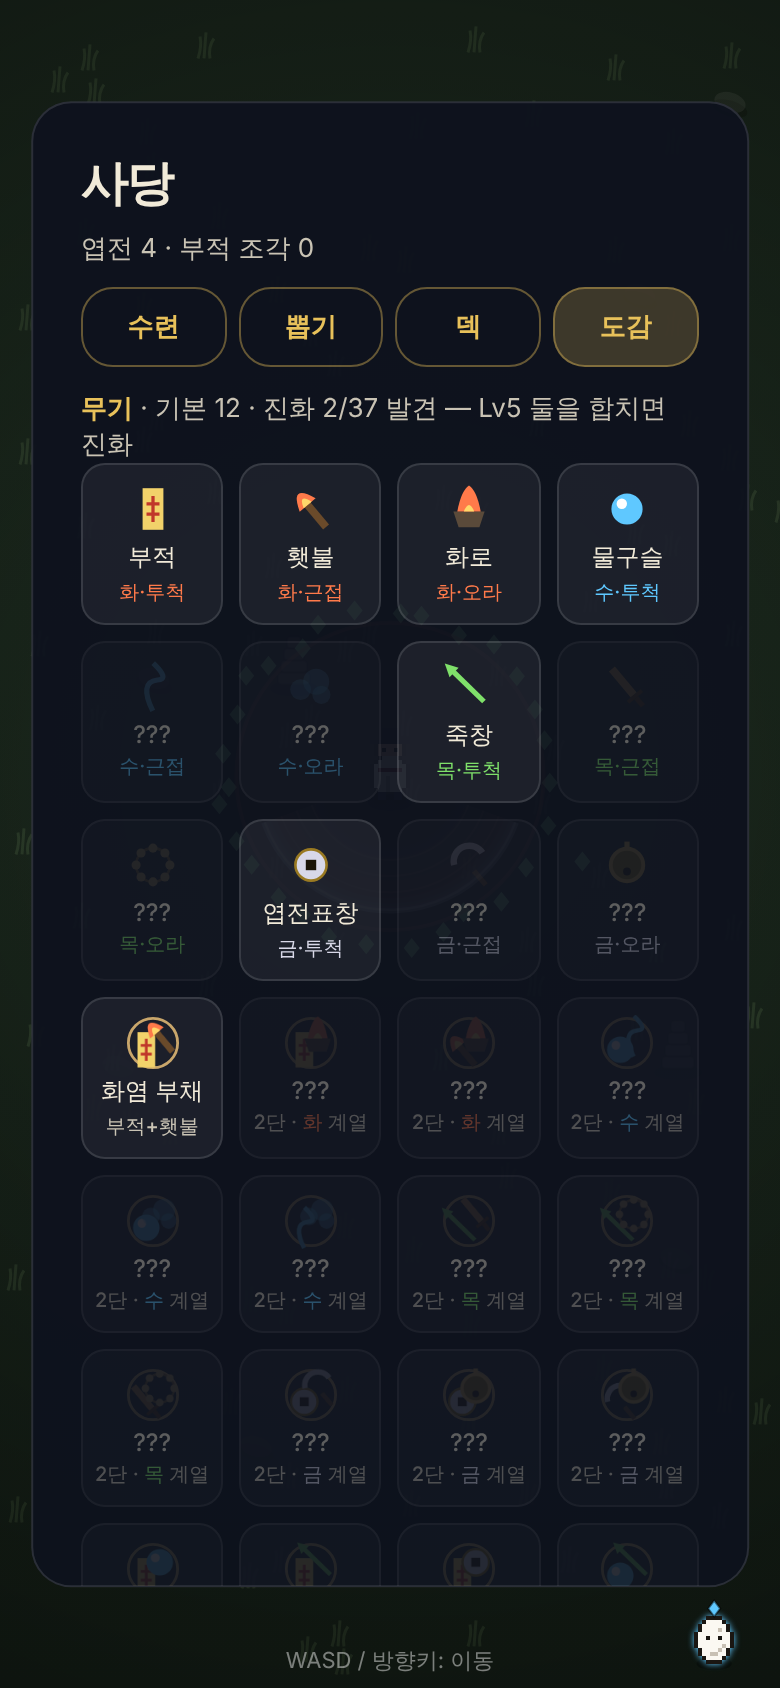
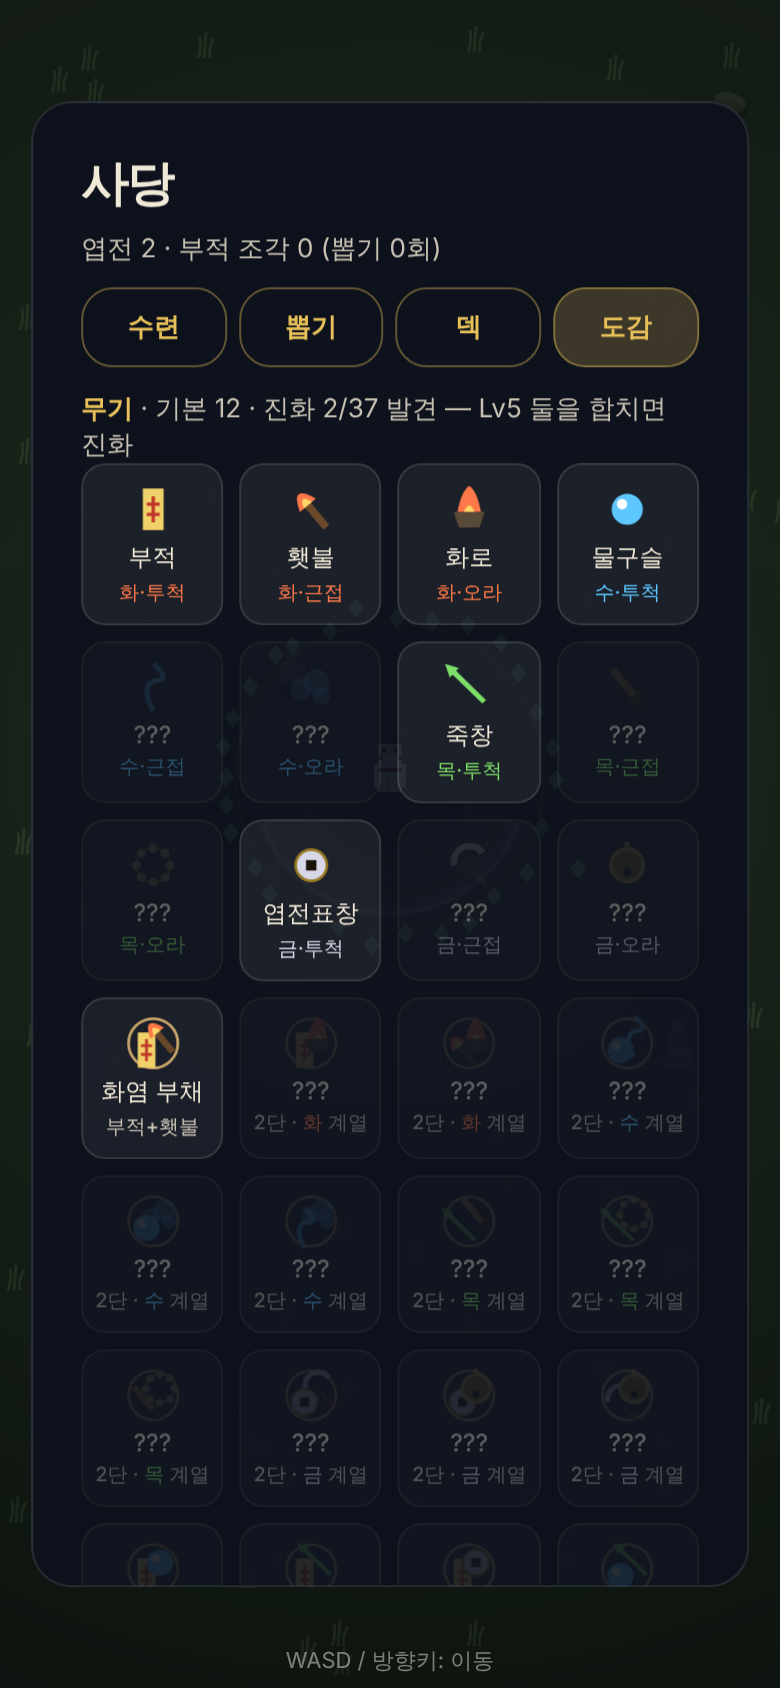
밤의 퇴마사 M3③: 클리어 뽑기권 3/6/12회분(첫 클리어 2배)·v7 아카이브·design §14
Claude-Session: https://claude.ai/code/session_01RmJvEQYZMU41pMZMsu4AKq

diff --git a/docs/04-night-exorcist/design.md b/docs/04-night-exorcist/design.md
@@ -128,3 +128,11 @@ challenge(n) = 1 + 0.975·(1 − 0.86^n)     (밤 단계)
 - 7일 사이클은 이 M3 가 끝날 때까지 늘어남 (공개 = M3 + 실측 보정 후)
 
 구현 순서: ① 요괴 21종 + 스테이지 속성 랜덤 → ② 진화 + 도감 → ③ 뽑기권·스테이지 4~6 예정 칸 → 시뮬·테스트 → v7 비공개
+
+## 14. M3 구현 결과 (10/03 저녁, v7 · 비공개)
+- ① 요괴 21종: 초원(달걀귀신·도깨비불·물귀신·강시·구미호 / 두억시니 화·이무기 수), 숲(달토끼 혼령·처녀귀신·부엉귀·산삼 정령·나무귀신 / 백호 금·대지네 목), 폐사지(흑까마귀·화마·원귀·골승·석장승 / 재귀 화·야차왕 금). 잡몹·정예 속성은 스테이지 els 3개 중 스폰 시 랜덤(`o.el`), 보스 고정. 선택 화면에 속성·배율·보스 표시, 4~6 "예정" 잠금 칸
+- ② 진화 37종: 격자 문법(§13). `evoOptions()` 가 P.w 기준으로 가능 조합을 찾고, 레벨업 3택1 첫 카드로 제안(2택 + 진화). 부모는 `P.used` 로 그 런에서 재등장 금지. `firePart(w, owner)` 가 부품 공격을 전부 발사, 피해 ×1.5/×2.2, 상성은 부모 중 유리한 쪽만(max, 하한 1). 아이콘 = 부품 합성 + 단 테두리. 도감 49칸(META.evo)
+  - 밸런스 메모: 2단 하나 = 그 슬롯 ×1.5 ≈ 전체 DPS ×1.12, 3단 = 3슬롯 묶어 ×2.2 ≈ 전체 ×1.9. 2단은 10레벨(≈6분), 3단은 15레벨+상자(≈9분)이라 run-sim-m2 게이트(9분 이전 사망 판정)엔 영향 없음. 실측에서 3단 도달률을 본다
+- ③ 뽑기권: 클리어 = 조각 30/60/120 (3/6/12회분), 첫 클리어 2배 → 3스테이지 첫 클리어 24회분. 정예 1·보스 3 그대로
+- 테스트 m1 14 · v3 11 · m2 16 · m3 9 · m3b 10 = 60 PASS, perf p95 2.6ms
+- 다음: 호원 실플레이 → 실측 분포(`balance-query.sql`) → 스테이지 4~6(새 속성 여부 결정) → 공개
